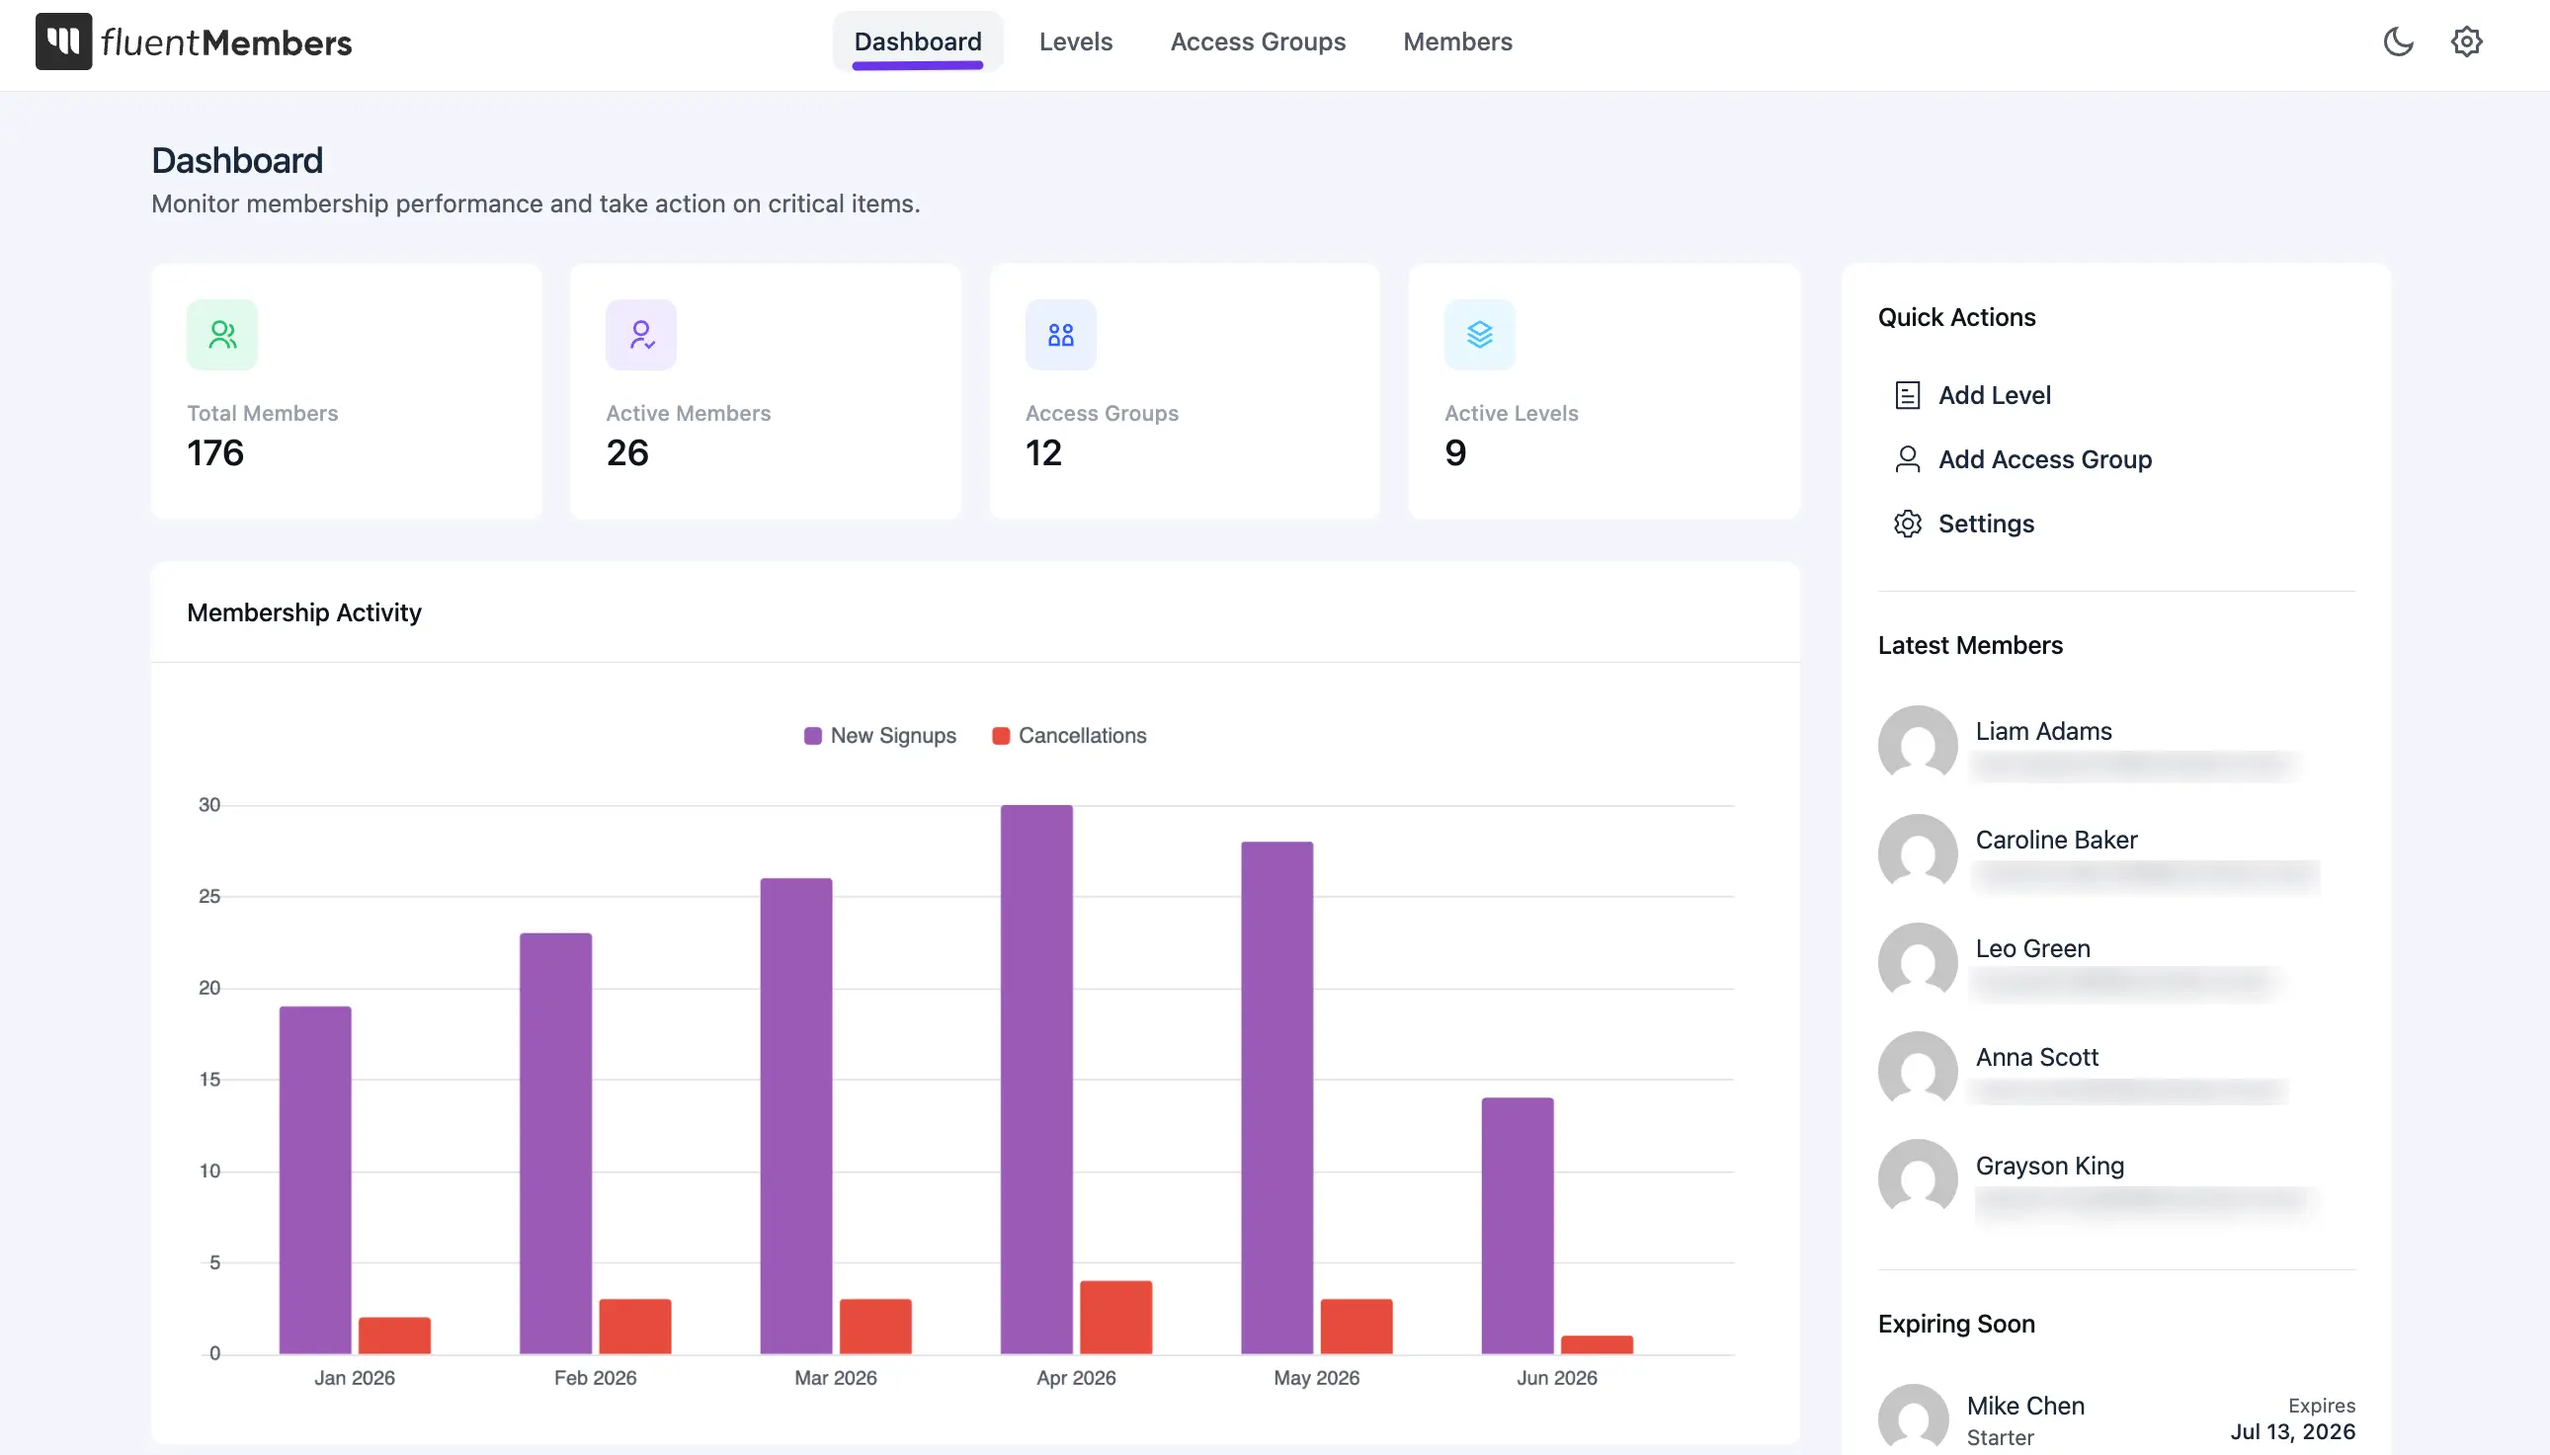
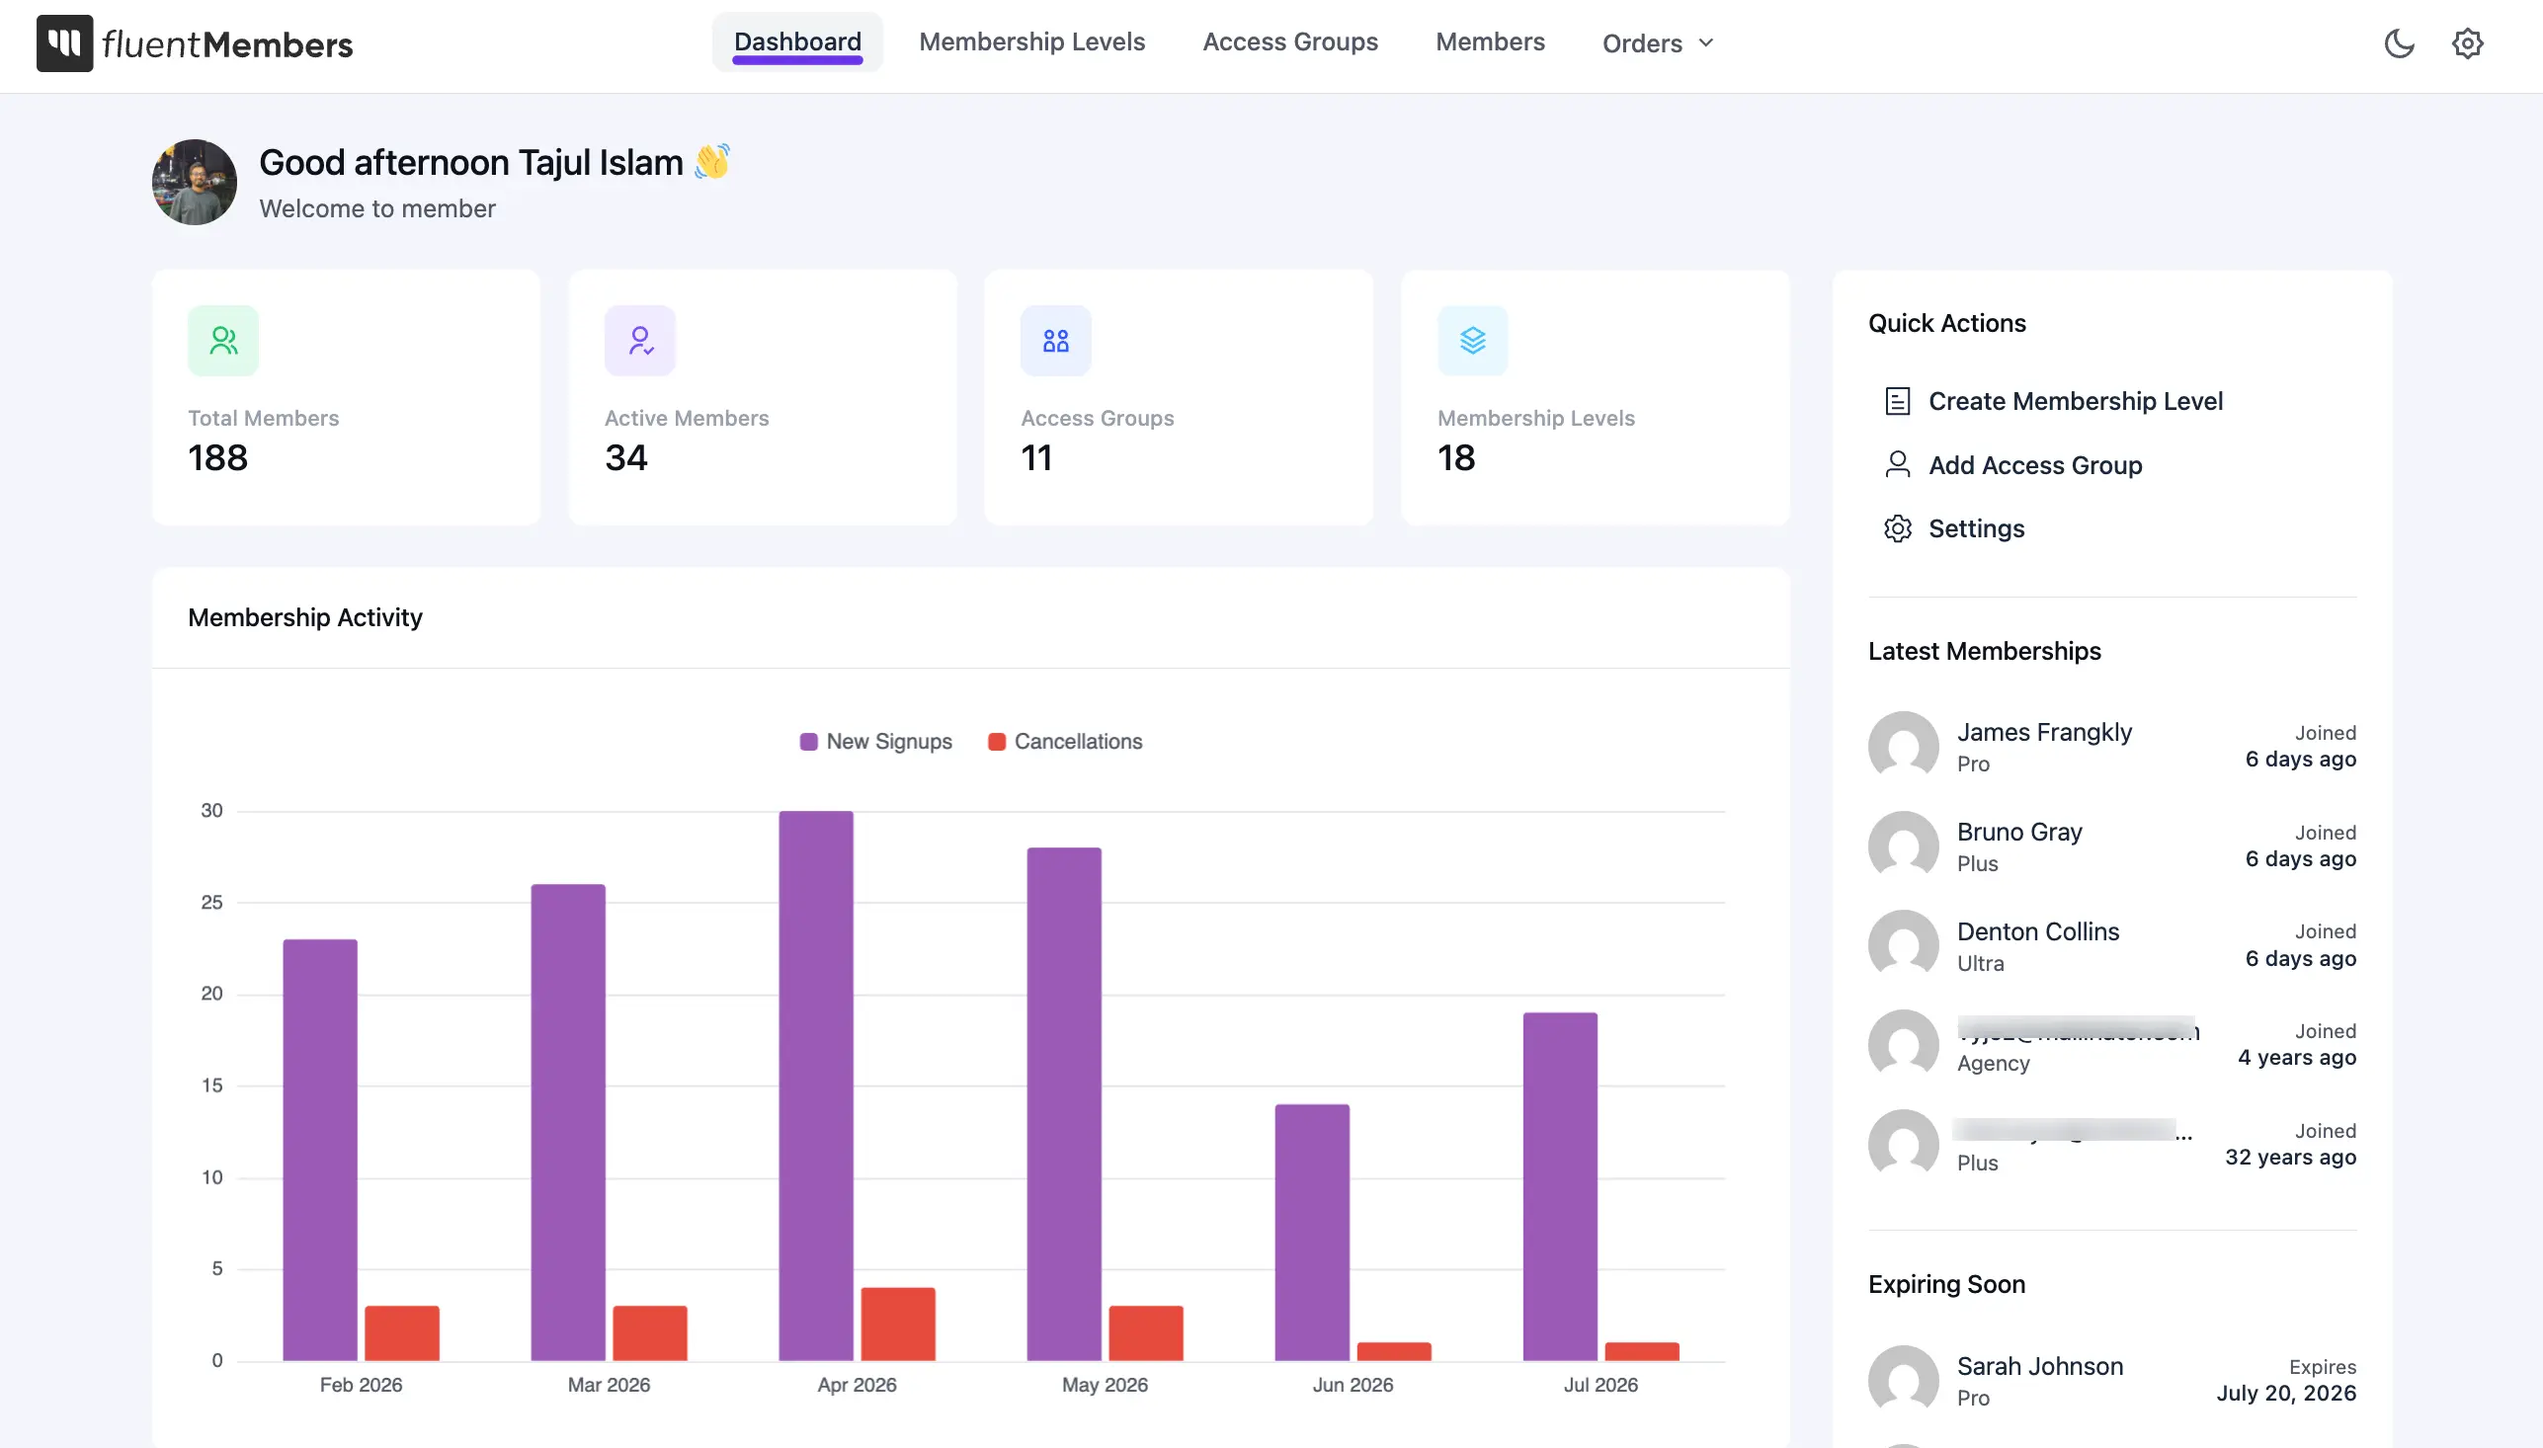
update dashboard doc

diff --git a/guide/dashboard/dashboard.md b/guide/dashboard/dashboard.md
@@ -1,29 +1,33 @@
 # Dashboard Overview
 
-The **Fluent Members** Dashboard is your central hub for monitoring your membership site. When you open the plugin, this screen gives you a real-time snapshot of your member growth, active access rules, and recent account activity.
+The **Fluent Members** Dashboard is your central hub for monitoring your membership site. When you open the plugin, this screen gives you a real-time snapshot of your member growth, access rules, and recent account activity.
 
 ## Access the Dashboard
 
-Log in to your WordPress dashboard and click **Fluent Members** in the left sidebar the Dashboard opens by default. If you are on another plugin screen, click **Dashboard** in the top navigation to return here.
+Log in to your WordPress dashboard and click **Fluent Members** in the left sidebar, the Dashboard opens by default. Once inside the plugin, its own top navigation bar (**Dashboard**, **Membership Levels**, **Access Groups**, **Members**, and **Orders** for Pro sites) stays visible, click **Dashboard** from any of those screens to come back here.
+
+## Greeting
+
+The Dashboard opens with a personal greeting, your avatar, a time-of-day greeting ("Good morning" / "Good afternoon" / "Good evening"), and your display name.
 
 ## Top Statistic Cards
 
-At the top of the Dashboard, you will find four quick-glance statistic cards that summarize your site's current status:
+Below the greeting, four quick-glance statistic cards summarize your site's current status:
 
 - **Total Members:** The complete count of WordPress users who have a membership record, including cancelled or expired accounts.
 - **Active Members:** The number of users who currently have an active membership (`active` or `trial` status) and can access your protected content.
 - **Access Groups:** The total number of [Access Groups](/guide/access-groups/) you have created to protect your site's content, including both active and inactive groups.
-- **Active Levels:** The number of [Membership Levels](/guide/levels/) currently published and available for users to join.
+- **Membership Levels:** The total number of [Membership Levels](/guide/levels/) you have created, published or not.
 
 ::: tip Reading the gap
 The difference between *Total Members* and *Active Members* is your churn pile: cancelled, expired, and suspended accounts. A healthy site keeps this gap small relative to total members.
 :::
 
-![Fluent Members Dashboard overview](/images/getting-started/dashboard/dashboard-overview-1.webp)
+![Fluent Members Dashboard: greeting, top statistic cards, Membership Activity chart, Quick Actions, Latest Memberships, and Expiring Soon](/images/getting-started/dashboard/dashboard-overview-1.webp)
 
 ## Performance Charts
 
-The middle section features three charts that help you visualize your site's performance over time.
+Scrolling down, three charts help you visualize your site's performance over time.
 
 #### Membership Activity
 
@@ -31,11 +35,13 @@ This bar chart compares your **New Signups** against **Cancellations** month by 
 
 #### Membership Trends
 
-This line chart tracks the running total of **Active** versus **Suspended** accounts over time. Unlike the bar chart, this shows totals at each point in time, not new events for that period. A steadily rising active line means your base is growing. A spike in suspended accounts may indicate billing issues worth investigating.
+This line chart tracks the running total of **Active** versus **Suspended** accounts over time. Unlike the bar chart, this shows totals at each point in time, not new events for that period. A steadily rising active line means your base is growing. A spike in the suspended line may indicate billing issues worth investigating.
 
 #### Membership Recap
 
-A donut chart showing how your total active members are divided across your different Membership Levels. Each slice represents one level (for example, *Starter*, *Pro*, *Annual*) with a member count. Click **View More** at the bottom of the card to jump to the full Levels list.
+A donut chart with your total member count in the center, and a color-coded slice per Membership Level below it (for example, *Free Member*, *Starter*, *Pro*), each with its own member count. Click **View More** at the bottom of the card to jump to the full Levels list.
+
+![Fluent Members Dashboard: Membership Trends line chart and Membership Recap donut chart](/images/getting-started/dashboard/dashboard-overview-2.webp)
 
 ## Side Panel Management
 
@@ -43,23 +49,21 @@ On the right side of the screen, you will find helpful tools for day-to-day mana
 
 #### Quick Actions
 
-Use these shortcut buttons to quickly **Add Level**, **Add Access Group**, or jump straight to your global **Settings**. **Add Level** opens the same modal as **Levels → Add New Level**; **Add Access Group** opens the Create Access Group modal.
+Use these shortcut buttons to quickly **Create Membership Level**, **Add Access Group**, or jump straight to your global **Settings**. **Create Membership Level** opens the same modal as **Membership Levels → Add New Level**; **Add Access Group** opens the Create Access Group modal.
 
-#### Latest Members
+#### Latest Memberships
 
-A list showing the five most recently enrolled members. Each row shows an avatar, name, and email address. Click any member to view their detailed profile and full membership history.
+A list showing the five most recently created memberships. Each row shows an avatar, the member's name, the Membership Level they joined on, and a relative "Joined [X] ago" timestamp. Click any row to view that member's detailed profile and full membership history.
 
 #### Expiring Soon
 
-This section highlights members whose access will expire within the next 30 days, allowing you to send them a quick renewal reminder. If the list is empty, you will see *"No recent expirations."*
+This section highlights members whose access will expire within the next 30 days, each row shows the member's name, their Membership Level, and the exact expiry date, so you can send them a quick renewal reminder. If the list is empty, you will see *"No recent expirations."*
 
 ## Important Notes
 
 ::: warning Before you draw conclusions from the numbers
 - **User counts:** The *Total Members* count only tracks users with a Fluent Members record. It does not count standard WordPress users who have never interacted with your membership plans.
-- **Dark mode:** You can toggle a dark mode view by clicking the moon icon in the top right corner of the Dashboard navigation bar.
+- **Dark mode:** Toggle a dark mode view with the moon icon in the top right corner of the Dashboard navigation bar, right next to the **Settings** shortcut (gear icon).
 :::
-
-![Fluent Members Dashboard overview](/images/getting-started/dashboard/dashboard-overview-2.webp)
 
 The Fluent Members Dashboard is designed to give you instant clarity on your site's health. By checking this screen regularly, you can easily track signups, monitor cancellations, and navigate directly to your most used settings.
